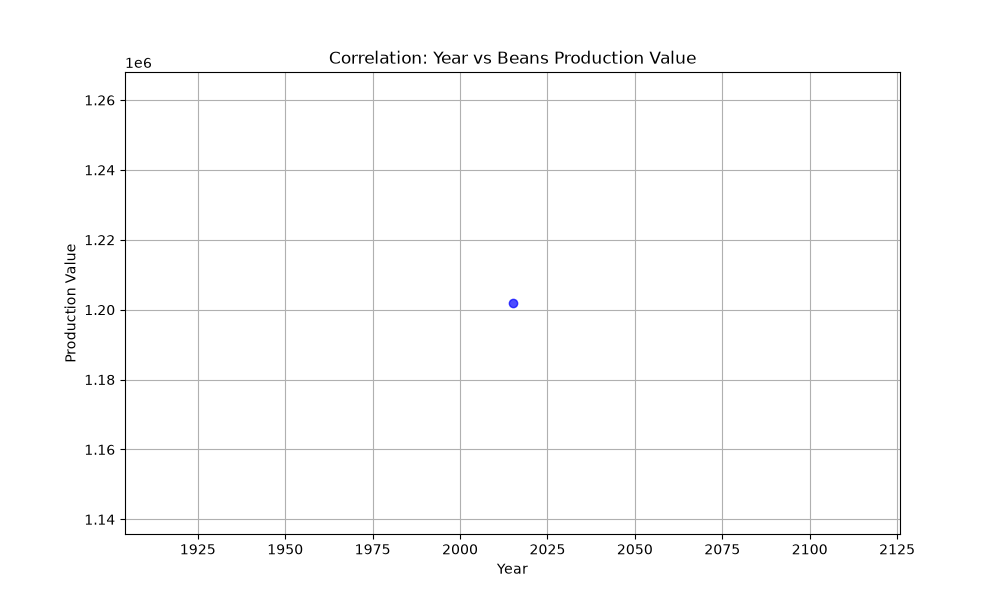
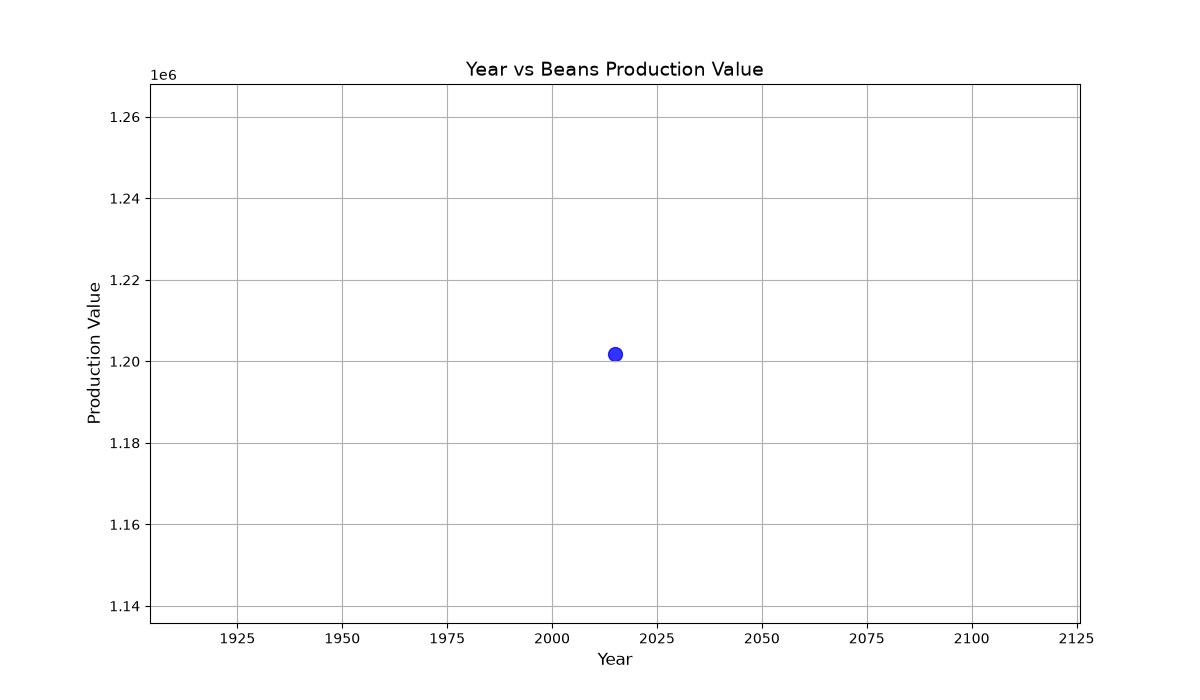
improved output

diff --git a/Main.py b/Main.py
@@ -2,50 +2,52 @@ import pandas as pd
 import matplotlib.pyplot as plt
 import os
 
-print("=== Beans Production Visualization (2015-2024) ===\n")
+print("=== Improved Visualization for Beans Production ===\n")
 
-# Load the cleaned file
 df = pd.read_csv('data/cleaned_beans_data.csv')
 
-# Filter only Beans
+# Filter Beans
 if 'Item' in df.columns:
     df = df[df['Item'].str.contains('Bean', case=False, na=False)].copy()
-    print(f"Using Beans data: {len(df)} rows")
+
+print(f"Total Beans rows: {len(df)}")
+print("Years available:", sorted(df['Year'].unique()) if 'Year' in df.columns else "No Year")
 
 os.makedirs('outputs', exist_ok=True)
 
-# Plot 1: Trend Analysis
-plt.figure(figsize=(10, 6))
+# Plot 1: Trend (bigger, clearer)
+plt.figure(figsize=(12, 7))
 yearly = df.groupby('Year')['Value'].mean()
-yearly.plot(kind='line', marker='o', color='darkgreen', linewidth=2.5)
-plt.title('Beans Production Trend (2015-2024)')
-plt.xlabel('Year')
-plt.ylabel('Average Production Value')
+yearly.plot(kind='line', marker='o', color='darkgreen', linewidth=3, markersize=8)
+plt.title('Beans Production Trend (2015-2024)', fontsize=14)
+plt.xlabel('Year', fontsize=12)
+plt.ylabel('Average Production Value', fontsize=12)
 plt.grid(True)
+plt.xticks(yearly.index)   # Show all years
 plt.savefig('outputs/01_trend_analysis.png')
 plt.show()
 
-# Plot 2: Categorical Comparison
-plt.figure(figsize=(10, 6))
+# Plot 2: Bar Chart
+plt.figure(figsize=(12, 7))
 if 'Element' in df.columns and df['Element'].nunique() > 1:
     df.groupby('Element')['Value'].mean().plot(kind='bar', color='orange')
-    plt.title('Beans Production by Element')
+    plt.title('Beans Production by Element', fontsize=14)
 else:
     df.groupby('Area')['Value'].mean().plot(kind='bar', color='orange')
-    plt.title('Beans Production by Area')
-plt.ylabel('Average Value')
+    plt.title('Beans Production by Area', fontsize=14)
+plt.ylabel('Average Value', fontsize=12)
 plt.grid(True)
 plt.savefig('outputs/02_categorical_comparison.png')
 plt.show()
 
-# Plot 3: Correlation
-plt.figure(figsize=(10, 6))
-plt.scatter(df['Year'], df['Value'], alpha=0.7, color='blue')
-plt.title('Correlation: Year vs Beans Production Value')
-plt.xlabel('Year')
-plt.ylabel('Production Value')
+# Plot 3: Scatter with better scale
+plt.figure(figsize=(12, 7))
+plt.scatter(df['Year'], df['Value'], alpha=0.8, color='blue', s=100)
+plt.title('Year vs Beans Production Value', fontsize=14)
+plt.xlabel('Year', fontsize=12)
+plt.ylabel('Production Value', fontsize=12)
 plt.grid(True)
 plt.savefig('outputs/03_correlation_plot.png')
 plt.show()
 
-print("\n✅ All 3 plots saved in the 'outputs' folder!")
+print("\n✅ Improved graphs generated!")